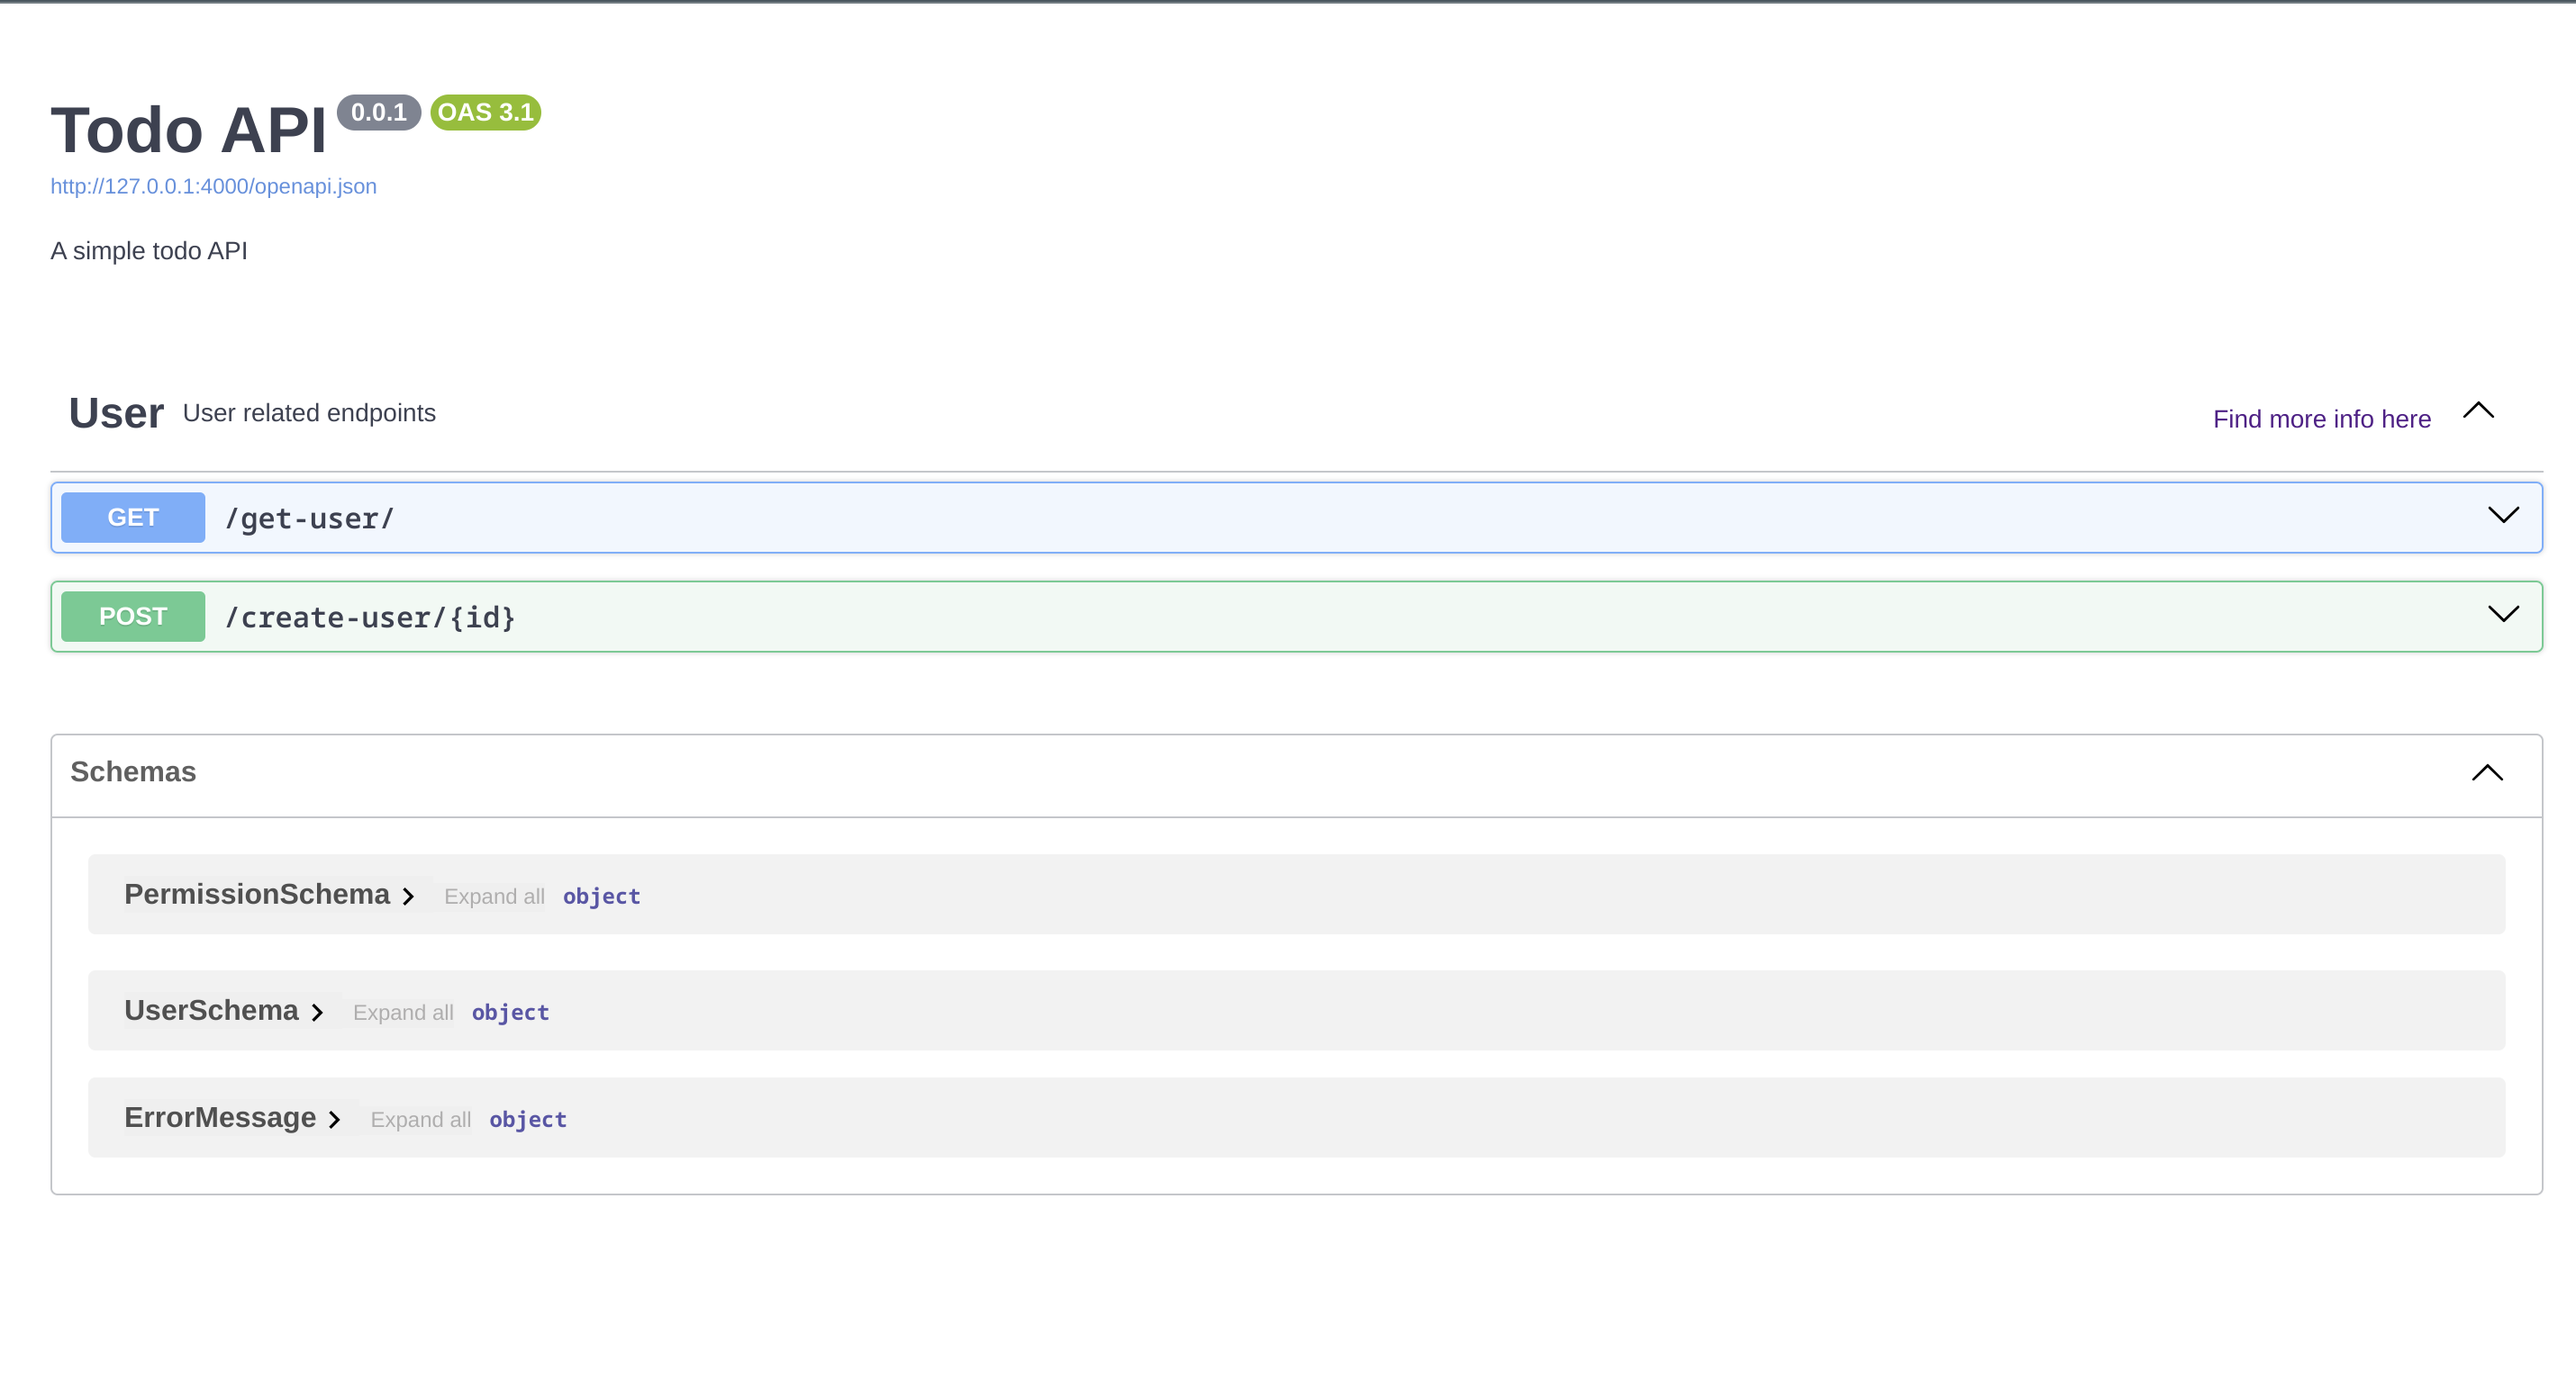
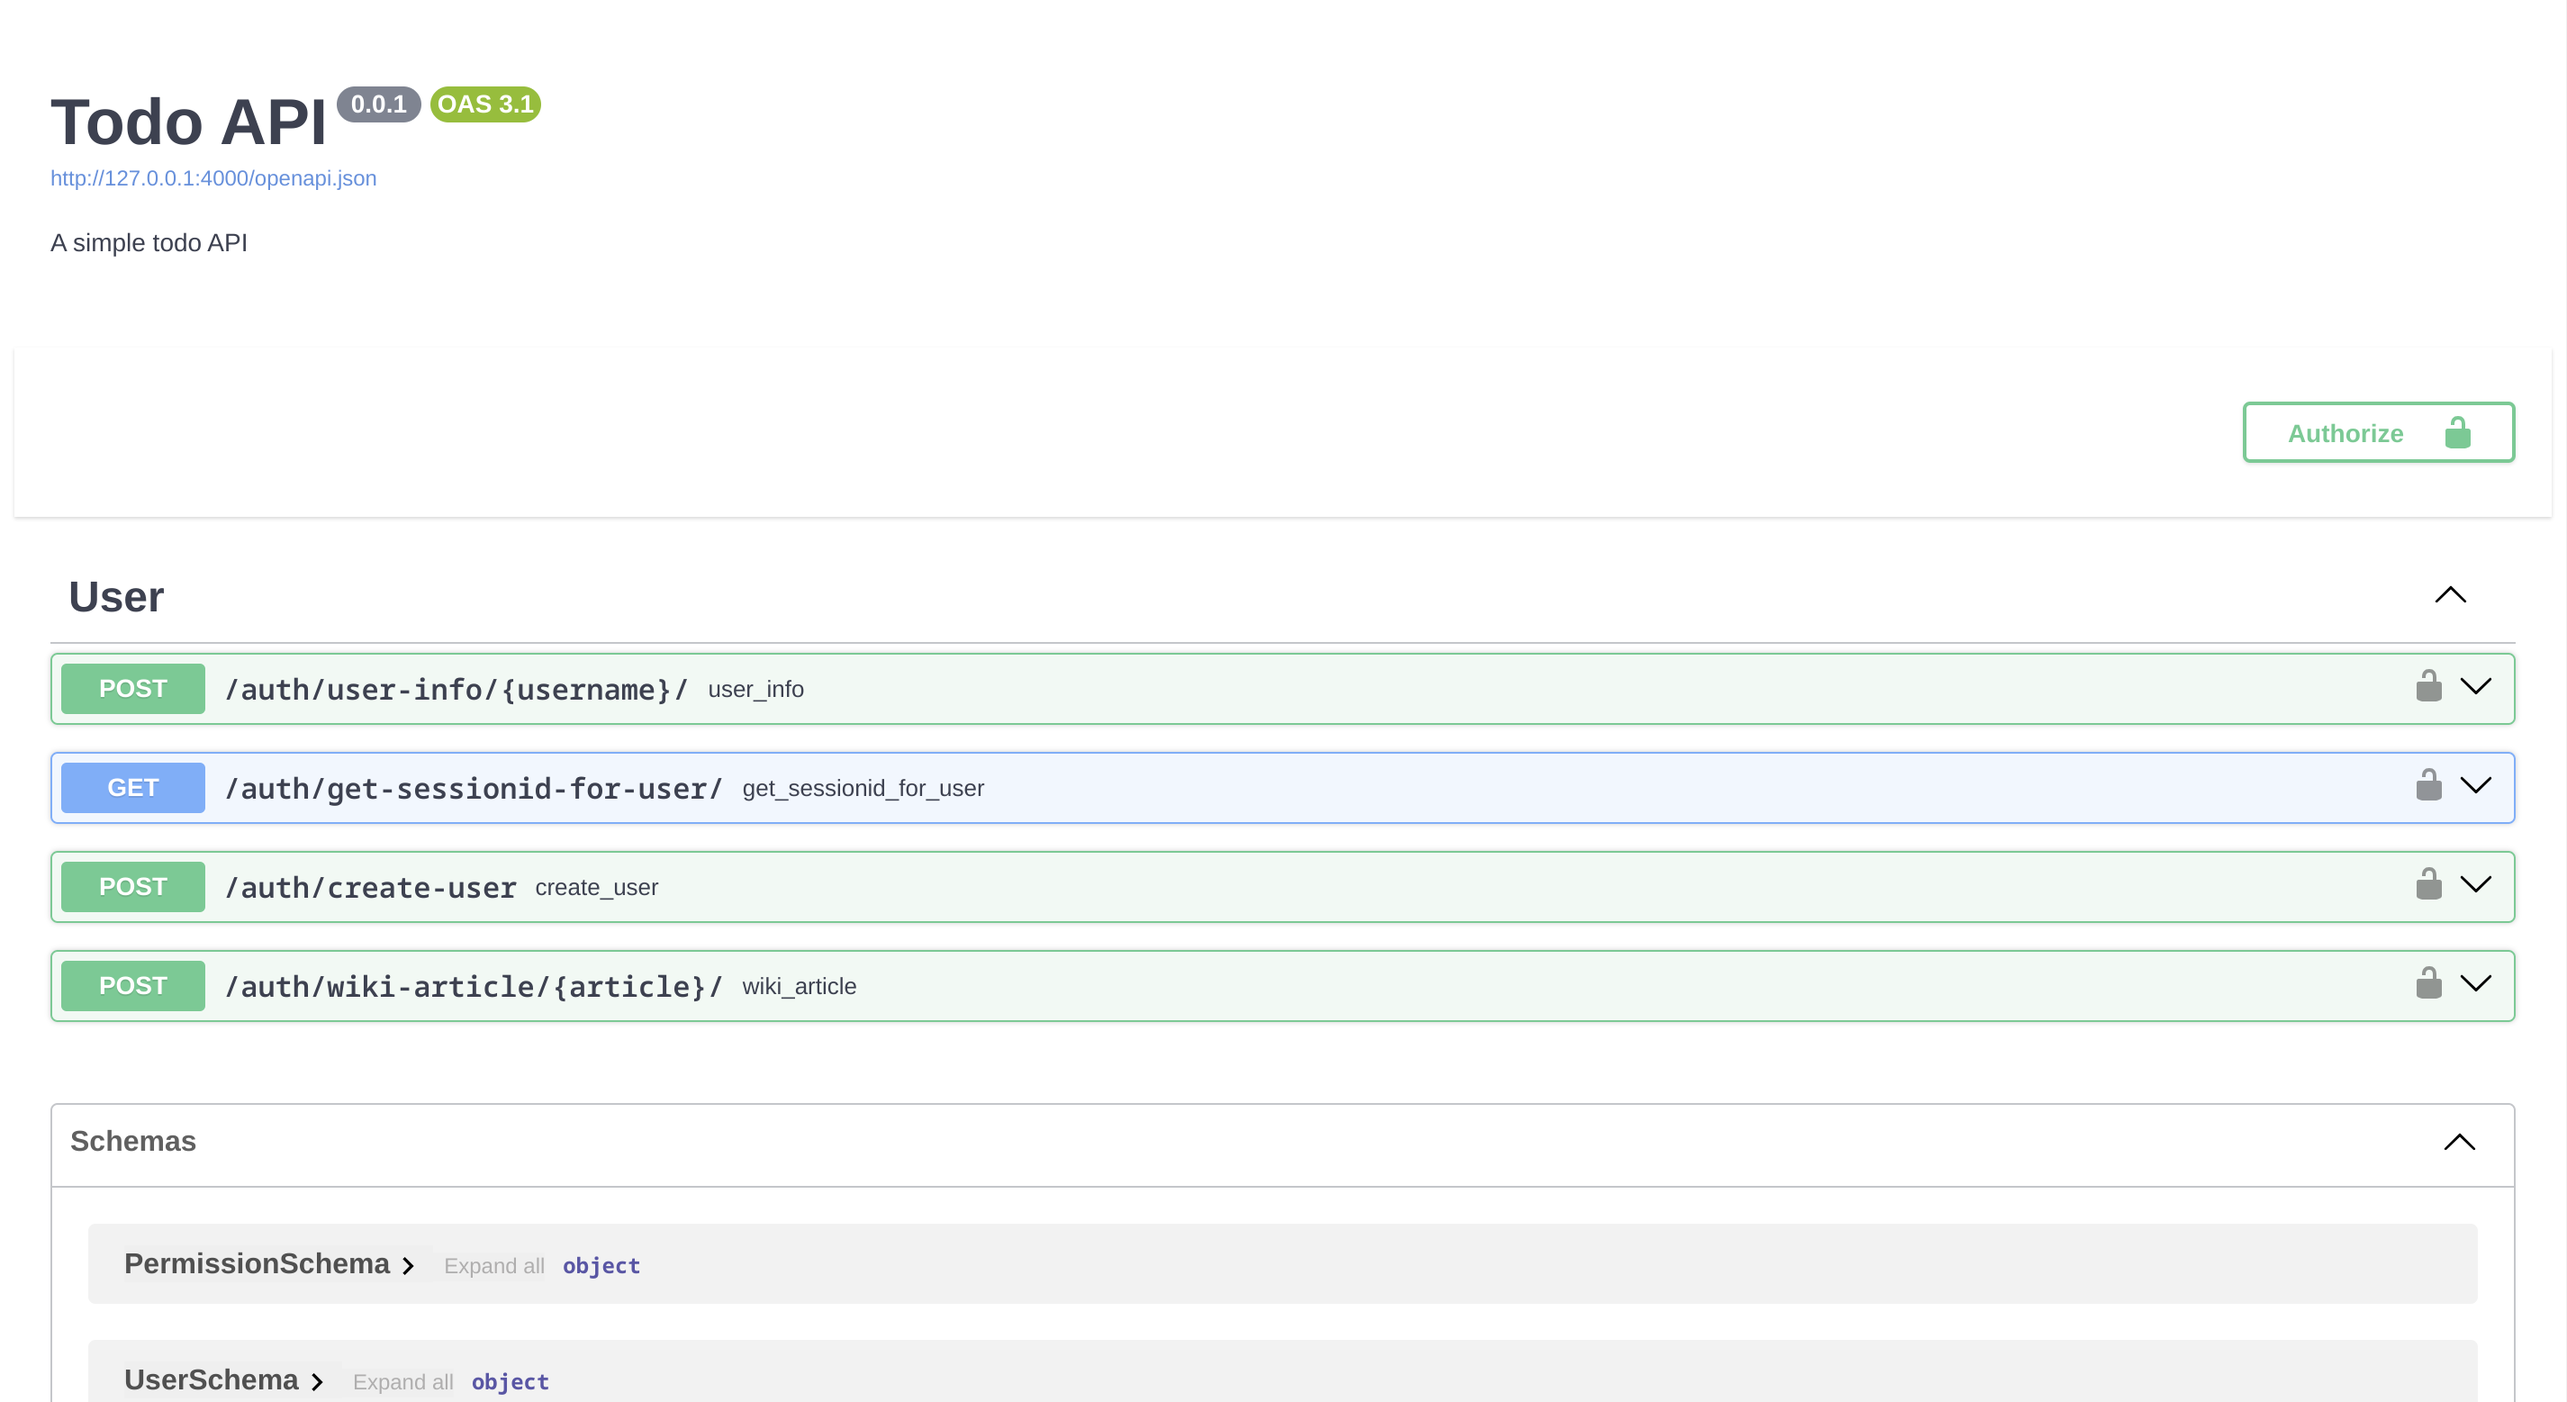
docs updated

diff --git a/djapy/__init__.py b/djapy/__init__.py
@@ -3,5 +3,7 @@ from .core.openapi import openapi
 from .core.dec import djapify
 from .core.mid import UHandleErrorMiddleware
 from .schema import Schema
+from .core.auth import SessionAuth, BaseAuthMechanism
 
-__all__ = ['djapify', 'openapi', 'djapy_auth', 'djapy_method', 'Schema', 'UHandleErrorMiddleware']
+__all__ = ['djapify', 'openapi', 'djapy_auth', 'djapy_method', 'Schema', 'UHandleErrorMiddleware',
+                                                                         'SessionAuth', 'BaseAuthMechanism']

diff --git a/docs/auth.md b/docs/auth.md
@@ -1,0 +1,59 @@
+# Auth, well that's a thing
+
+Authentication is super critical for any application.
+It's the process of verifying the identity of a user. In this section, we'll cover how to authenticate users in your
+application.
+
+## Session Authentication
+
+Session authentication is the default authentication mechanism for Django, and Djapy supports it out of the box.
+
+To use session authentication, you need to import `SessionAuth` from `djapy.auth` and utilize it in your views.
+
+```python
+from djapy import SessionAuth
+
+
+@djapy_auth(SessionAuth, permissions=['plans.todos.can_view'])
+def todo_list(request):
+    ...
+```
+
+or if you wanna assign authentication to the all endpoints in your `views.py` file, you can use `AUTH_MECHANISM`
+variable.
+
+```python
+AUTH_MECHANISM = SessionAuth(permissions=['plans.todos.can_view'])
+```
+
+## Extending Base Authentication
+
+You can extend the base authentication mechanism to create your own custom authentication mechanism.
+
+Here's an example of how you can do that:
+
+```python
+from djapy import BaseAuthMechanism
+
+
+class CustomAuth(BaseAuthMechanism):
+    def __init__(self, permissions):
+        self.permissions = permissions
+
+    def authenticate(self, request):
+        # Your custom authentication logic here
+        return True
+
+    def authorize(self, request):
+        # Your custom authorization logic here
+        return True
+
+    def schema(self):
+        return {}  # Your custom schema here to be used in the swagger documentation
+
+    def app_schema(self):
+        return {}  # Your custom app schema here to be used in the swagger documentation
+```
+
+
+

diff --git a/docs/swagger.md b/docs/swagger.md
@@ -16,7 +16,10 @@ from djapy import openapi
 openapi.set_basic_info(
     title="Todo API",
     description="A simple todo API",
-    version="0.0.1"
+    version="0.0.1",
+    tags_info=[
+        {"name": "Todos", "description": "Operations related to todos"}
+    ]
 )
 
 urlpatterns = [
@@ -29,26 +32,18 @@ And that's it. You can now access your swagger documentation at the url you've s
 
 ## Tags and descriptions
 
-You can add tags and descriptions to your endpoints by using the `openapi_info` variable.
+You can add tags to whole endpoints in your `views.py` using the `TAGS` variable.
 
 ```python
-openapi_info = {
-    "tags": ["User"],
-    "tags_info": [
-        {
-            "name": "User",
-            "description": "User related endpoints",
-            "externalDocs": {
-                "description": "Find more info here",
-                "url": "https://example.com"
-            }
-        }
-    ]
-}
+TAGS = ["Todos"]
+
+
+@djapify
+def todo_list(request):
+    ...
 ```
 
-
-Also, you can assign tags name using `@djapigy` decorator.
+Also, you can assign tags specifically using `@djapigy` decorator.
 
 ```python
 from djapy import djapify
@@ -58,8 +53,5 @@ from djapy import djapify
 def todo_list(request):
     ...
 ```
-
-> Suggestion: You can `openapi_info > tags_info` to add more information about the tags and `@djapify` to add tags to the endpoint.
-Explain the tags in the `openapi_info` and use them accordingly with `@djapify` decorator.
 
 It's that simple.

diff --git a/docs/usage.md b/docs/usage.md
@@ -98,9 +98,9 @@ def get_user(request, username: str) -> {200: UserSchema, 404: str}:
 
 #### Allowed query parameter types
 
-- `str`
-- `int`
-- `float`
+- `str` or `Optional[str]` or `Literal["value1", "value2"]`
+- `int` or `Optional[int]` or `Literal[1, 2, 3]`
+- `float` or `Optional[float]`
 - `bool`
 - `datetime`
 

diff --git a/docs/index.md b/docs/index.md
@@ -20,7 +20,10 @@ Djapy is available on PyPI, and can be installed with `pip`:
 
 ```bash
 pip install djapy
+or
+pip install git+https://github.com/Bishwas-py/djapy.git@main # for the latest version
 ```
+
 
 ## Creating a new project
 
